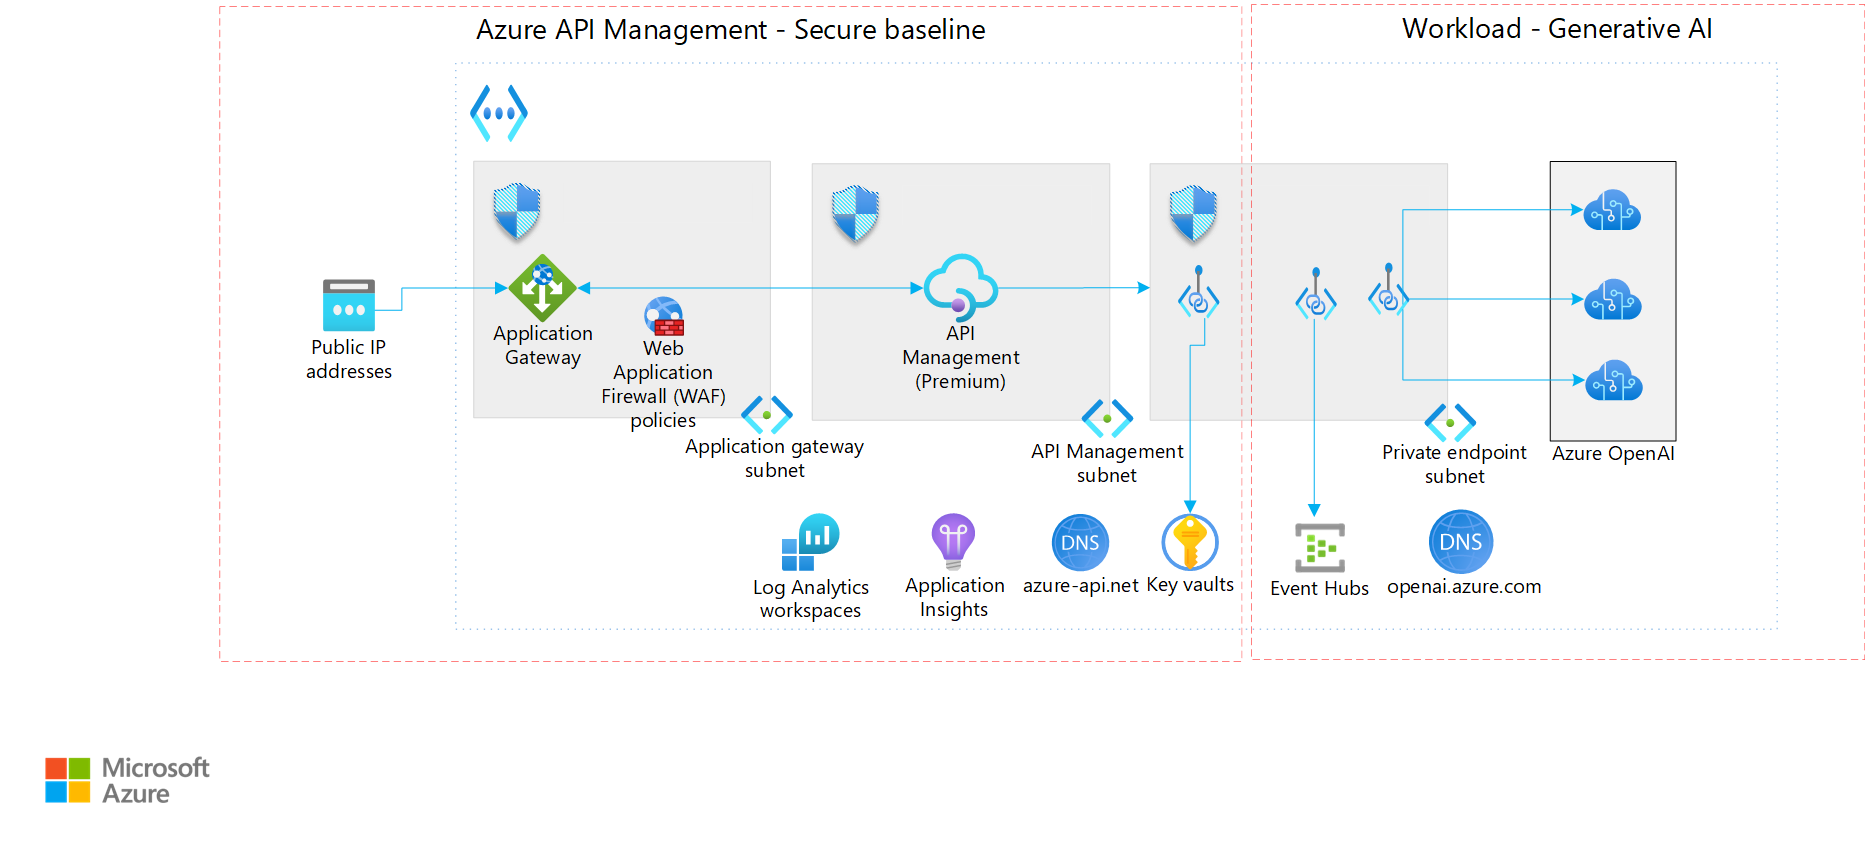
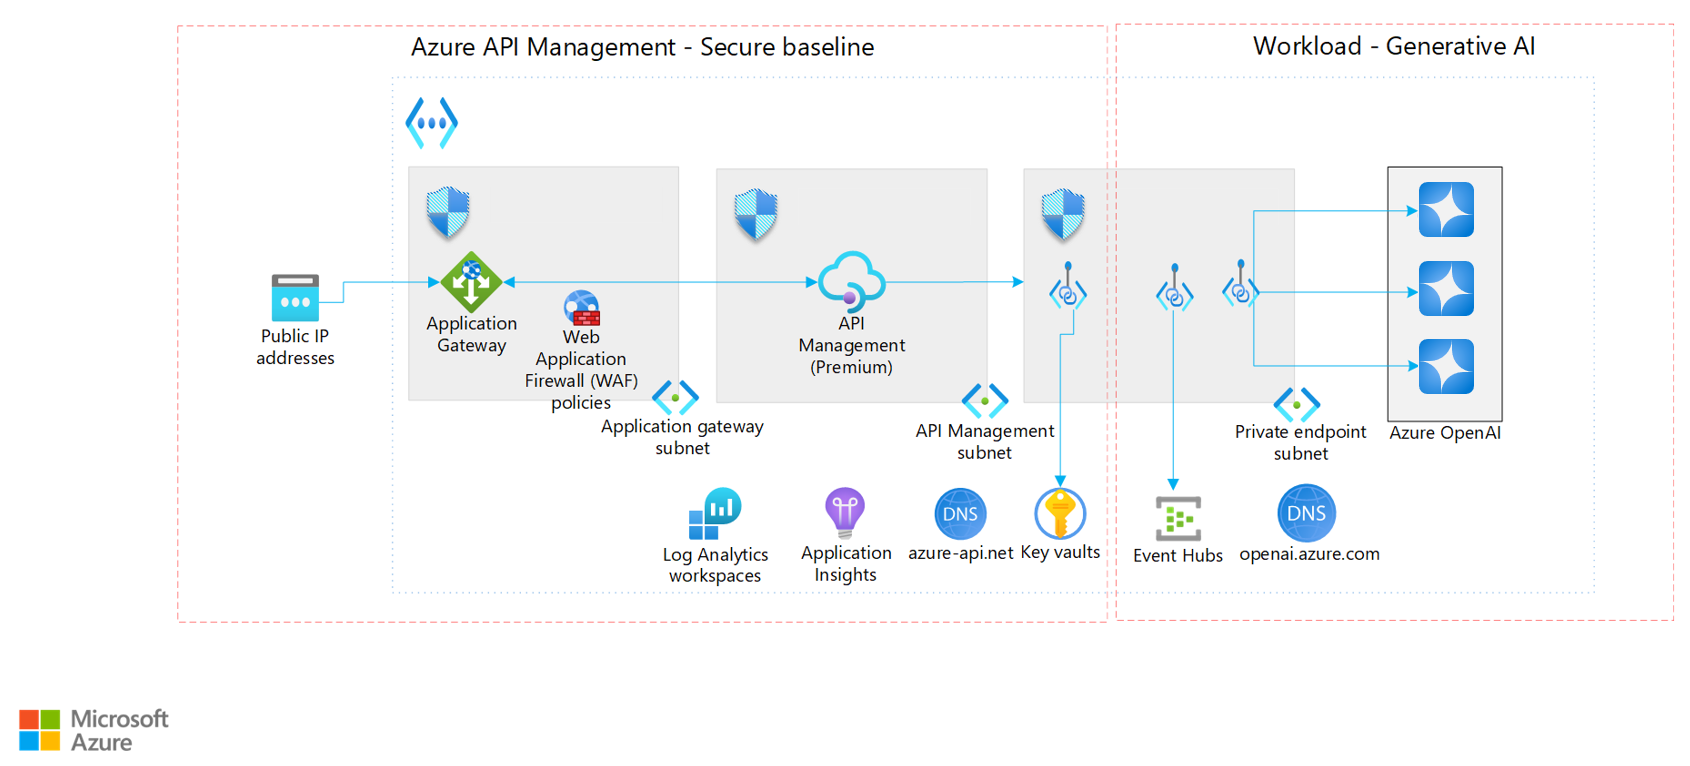
Updated png file and removed old diagram that is not in use anymore

diff --git a/docs/scenarios/app-platform/api-management/landing-zone-accelerator.md b/docs/scenarios/app-platform/api-management/landing-zone-accelerator.md
@@ -74,7 +74,7 @@ The generative AI gateway sample code describes how to provision and interact wi
 
 Use the deployment guide to deploy private Azure OpenAI endpoints and an opinionated set of policies in API Management to manage traffic to these endpoints. Test the policies by sending requests to the gateway. You should use the provided policy fragments or modify the solution to include your own custom policies.
 
-[![Diagram that shows generative AI resources governance through API Management.](./media/landing-zone-accelerator/api-management-workload-ai1.png)](./media/landing-zone-accelerator/api-management-workload-ai1.png#lightbox)
+[![Diagram that shows generative AI resources governance through API Management.](./media/landing-zone-accelerator/api-management-workload-ai.png)](./media/landing-zone-accelerator/api-management-workload-ai.png#lightbox)
 
 The recommended approach for an enterprise implementation is to begin with an Azure landing zone to help ensure that scalability, governance, and security are aligned with Cloud Adoption Framework best practices. If you plan to start your baseline integration with Azure OpenAI within an Azure landing zone, follow the steps in [Azure OpenAI baseline in an application landing zone](/azure/architecture/ai-ml/architecture/azure-openai-baseline-landing-zone).
 
